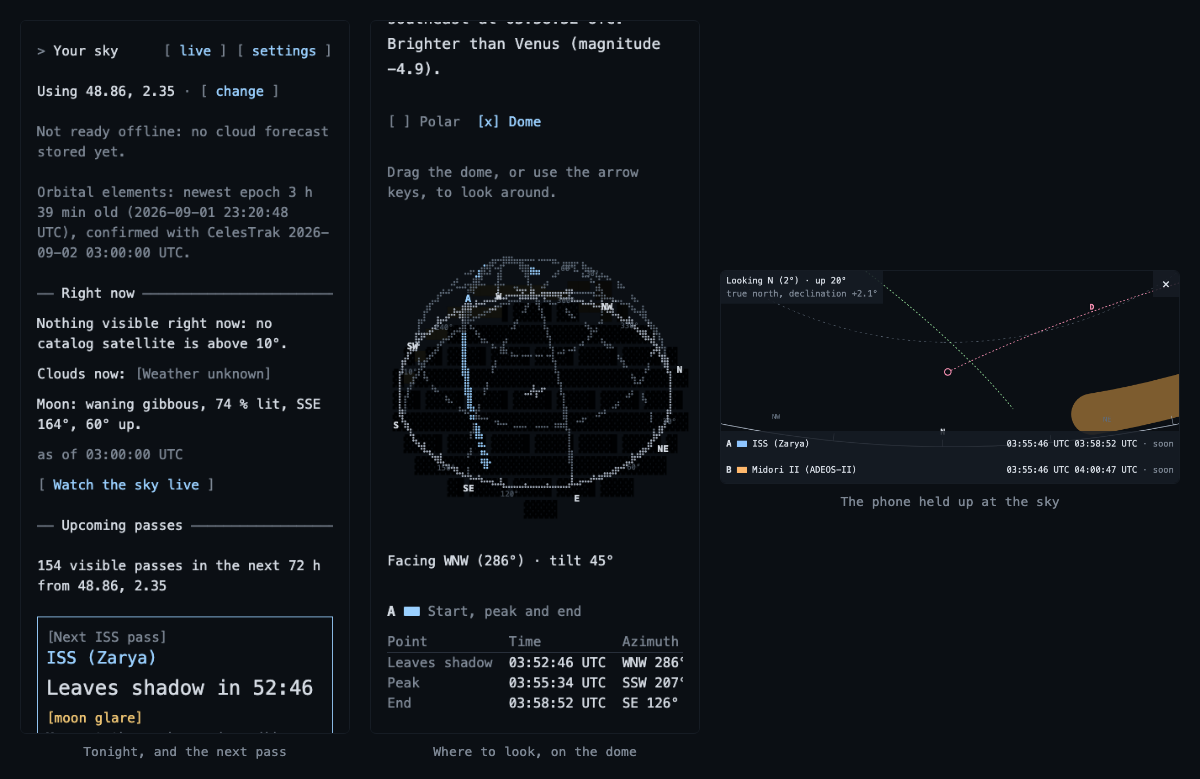
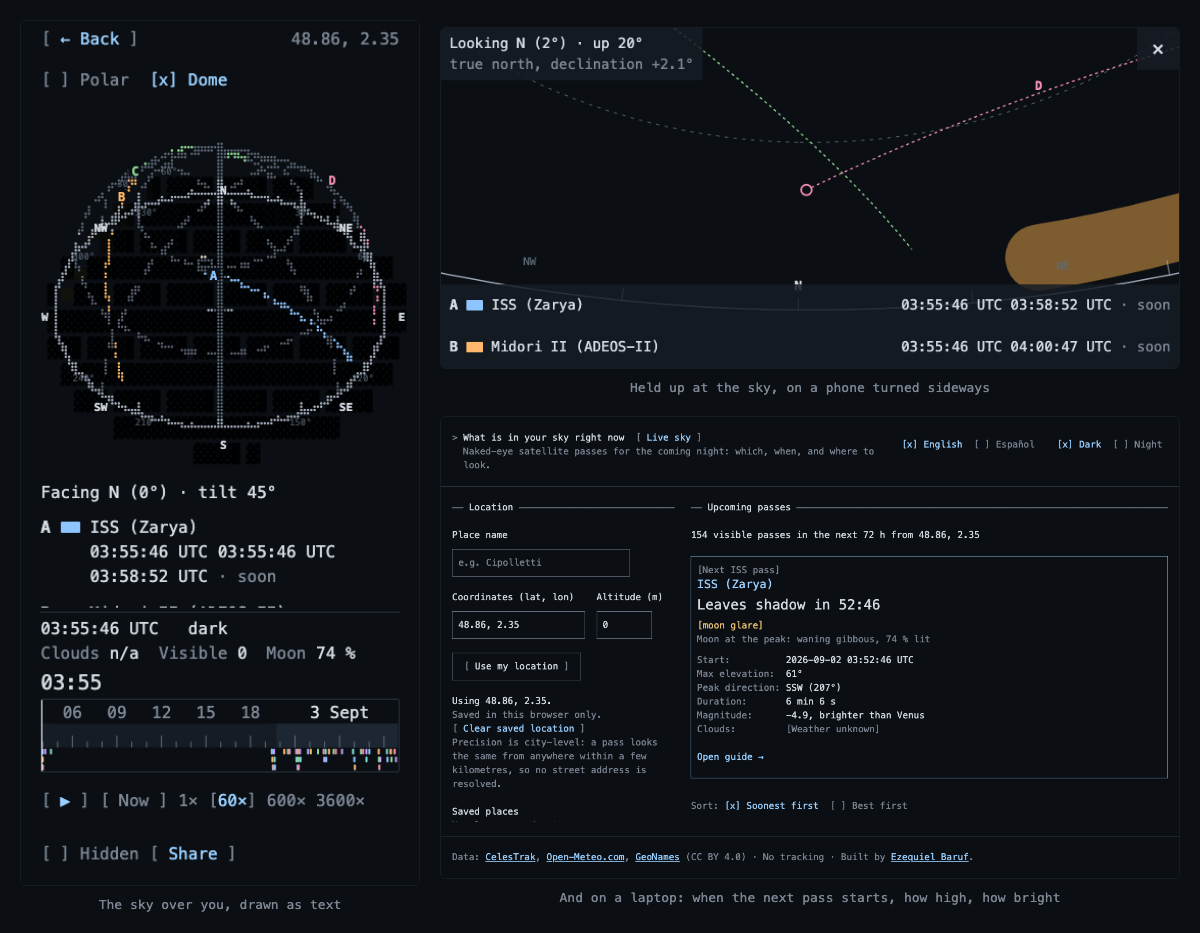
P1 review: the hero's geometry is derived from SOURCES, and the picture is worth the first screen
compose() hardcoded two portrait tiles and one landscape one, so a change
to SOURCES moved the pictures without moving the boxes they are drawn in.
Each source declares its own pixel size and its slot now, and geometry()
computes every width and height from those two facts and throws on a set
it cannot draw. The test asserts the declared sizes against the PNG
headers, that the placed tiles are exactly the sources, that the sheet is
as tall as its taller column, and the three refusals.

That hardcoding is also why the picture was wrong: a sideways phone stood
in a column sized for a standing one with a third of the sheet empty under
it. The sheet is a standing phone beside a column of two now, and the third
tile is the laptop page rather than a second view of the live one — the
next pass with its time, elevation, duration, magnitude and cloud verdict
is the thing a reader came to see, and it was in neither of the other two.

1280 x 640 cannot hold three tiles at any width, so the social preview
takes the standing phone and the first sideways one; previewSources says
so and the test pins it. Alt text follows the composition.

diff --git a/scripts/readme-hero.ts b/scripts/readme-hero.ts
@@ -5,18 +5,26 @@
  *
  *   npx tsx scripts/readme-hero.ts
  *
- * The app is never run to make these. The script writes one HTML page with
- * three `<img>` tags pointing at committed captures, opens it with the
- * Playwright Chromium the mockup script already uses, and screenshots it
- * twice: `docs/readme/hero.png` at 1200 px wide, and
- * `docs/readme/social-preview.png` at exactly 1280 x 640. Both are
- * deterministic given the inputs, and the inputs are named in `SOURCES`
- * below, which `tests/docs/public.test.ts` reads — so a capture renamed by a
- * later phase fails a test instead of leaving a broken image in the README.
+ * The app is never run to make these. The script writes one HTML page with an
+ * `<img>` per capture, opens it with the Playwright Chromium the mockup script
+ * already uses, and screenshots it twice: `docs/readme/hero.png` at 1200 px
+ * wide, and `docs/readme/social-preview.png` at exactly 1280 x 640. Both are
+ * deterministic given the inputs, and the inputs are named in `SOURCES` below,
+ * which `tests/docs/public.test.ts` reads — so a capture renamed by a later
+ * phase fails a test instead of leaving a broken image in the README.
  *
  * `docs/screenshots/` is read and never written: `tests/docs/captures.test.ts`
  * owns that directory and fails on a file the capture set does not name, which
  * is why the output lives under `docs/readme/`.
+ *
+ * The layout is computed from `SOURCES` by `geometry()`, and nothing about it is
+ * written down twice. The first version of this script hardcoded "two portrait
+ * tiles and one landscape tile", so a change to `SOURCES` would have moved the
+ * pictures without moving the boxes they are drawn in — and the picture it did
+ * produce stood a sideways phone in a column sized for a standing one, with a
+ * third of the sheet empty beneath it. Each source now declares its own pixel
+ * size and which slot it fills, and every width and height below is derived
+ * from those two facts.
  */
 import { chromium } from '@playwright/test';
 import { mkdirSync, mkdtempSync, rmSync, writeFileSync } from 'node:fs';
@@ -34,121 +42,193 @@ export const HERO = { path: join(OUT, 'hero.png'), width: 1200 } as const;
 export const PREVIEW = { path: join(OUT, 'social-preview.png'), width: 1280, height: 640 } as const;
 
 /**
- * The three captures, side by side, in this order. Each is a release capture
- * from the v1.3 set, shot in the dark theme in English from the production
- * build — so the picture cannot disagree with the build the capture set was
- * shot from.
+ * One capture in the composition. `w` and `h` are the file's own pixels — the
+ * test reads the PNG header and fails if a declaration drifts from the file —
+ * and the slot says where it goes: `main` is the standing phone on the left,
+ * `stack` is the column of sideways phones beside it.
+ */
+export interface Source {
+  file: string;
+  caption: string;
+  w: number;
+  h: number;
+  slot: 'main' | 'stack';
+}
+
+/**
+ * The captures, in this order. Each is a release capture from the v1.3 set,
+ * shot in the dark theme in English from the production build — so the picture
+ * cannot disagree with the build the capture set was shot from.
  *
- * `crop` is for a capture taller than the tile it is drawn in: the home screen
- * is one full-page shot 1913 px tall, and the tile shows its top.
+ * Three answers to the three things a reader wants in the first ten seconds:
+ * what the sky over them looks like (the live page on a standing phone, the
+ * tile the eye lands on first), what the app is for outdoors (the sky screen,
+ * held up, which is what the whole v1.3 phase was for), and what it actually
+ * tells you (the laptop page, where the next pass carries its time, elevation,
+ * duration, magnitude and cloud verdict in one card).
  */
 export const SOURCES = [
   {
-    file: 'v1-home-390-dark-en.png',
-    caption: 'Tonight, and the next pass',
-    orientation: 'portrait',
-    crop: true,
-  },
-  {
-    file: 'v1-guide-390-dark-en.png',
-    caption: 'Where to look, on the dome',
-    orientation: 'portrait',
-    crop: false,
+    file: 'v1-live-390-dark-en.png',
+    caption: 'The sky over you, drawn as text',
+    w: 390,
+    h: 844,
+    slot: 'main',
   },
   {
     file: 'v1-sky-screen-sky-844-dark-en.png',
-    caption: 'The phone held up at the sky',
-    orientation: 'landscape',
-    crop: false,
+    caption: 'Held up at the sky, on a phone turned sideways',
+    w: 844,
+    h: 390,
+    slot: 'stack',
   },
-] as const satisfies readonly {
-  file: string;
-  caption: string;
-  orientation: 'portrait' | 'landscape';
-  crop: boolean;
-}[];
+  {
+    file: 'v1-home-1280-dark-en.png',
+    caption: 'And on a laptop: when the next pass starts, how high, how bright',
+    w: 1280,
+    h: 800,
+    slot: 'stack',
+  },
+] as const satisfies readonly Source[];
 
 /** The dark theme's `--bg`, `--fg` and `--fg-dim` (`src/ui/styles/tokens.css`). */
 const INK = { bg: '#0b0f14', fg: '#d5dbe3', dim: '#7d8794', edge: '#161c24' } as const;
 
-/** One composition. `portrait` is the width of a phone tile; the landscape tile takes the rest of the row. */
-interface Layout {
+/** A caption's own box: the gap over it plus one line at 13/17. */
+const CAPTION_H = 10 + 17;
+/** The preview's title block: the heading, its gap and the URL line. */
+const TITLE_H = 22 + 6 + 18;
+
+/** What the sheet is, before the tiles are measured into it. */
+export interface Layout {
   width: number;
+  /** The height the file must have, or `null` to let the tiles set it. */
   height: number | null;
   pad: number;
   gap: number;
-  portrait: number;
+  /** The standing phone's width; every other box is derived from it. */
+  mainWidth: number;
   title: boolean;
 }
 
-/** 390 x 844 is the phone every capture in the set is shot at. */
-const PHONE = { width: 390, height: 844 } as const;
+/** One tile, placed. */
+export interface Placed {
+  source: Source;
+  width: number;
+  height: number;
+}
+
+/**
+ * The composition, computed. It throws rather than drawing something wrong: a
+ * sheet with no standing phone, none sideways, or no room left beside the
+ * standing one is a layout bug, and the picture it would produce is the kind
+ * nobody notices until it is the front page of a public repository.
+ */
+export function geometry(layout: Layout, sources: readonly Source[] = SOURCES): { main: Placed; stack: readonly Placed[]; height: number } {
+  const mains = sources.filter((source) => source.slot === 'main');
+  const stacked = sources.filter((source) => source.slot === 'stack');
+  const [only] = mains;
+  if (only === undefined || mains.length !== 1) throw new Error(`the sheet holds exactly one main tile; SOURCES declares ${String(mains.length)}`);
+  if (stacked.length === 0) throw new Error('the sheet needs at least one stacked tile');
+
+  const inner = layout.width - 2 * layout.pad;
+  const stackWidth = inner - layout.gap - layout.mainWidth;
+  if (stackWidth <= 0) throw new Error(`mainWidth ${String(layout.mainWidth)} leaves no room beside it in ${String(layout.width)} px`);
+
+  const place = (source: Source, width: number): Placed => ({ source, width, height: Math.round((width * source.h) / source.w) });
+  const main = place(only, layout.mainWidth);
+  const stack = stacked.map((source) => place(source, stackWidth));
+
+  const column = stack.reduce((total, tile) => total + tile.height + CAPTION_H, 0) + (stack.length - 1) * layout.gap;
+  const content = Math.max(main.height + CAPTION_H, column);
+  const height = content + 2 * layout.pad + (layout.title ? TITLE_H + layout.gap : 0);
+  return { main, stack, height };
+}
+
+/**
+ * The widest standing phone that keeps the sheet inside `ceiling`. The social
+ * preview is 1280 x 640 whatever is in it, so the tiles are sized down to that
+ * rather than the frame cropping whatever overflowed it.
+ */
+function fitMainWidth(layout: Layout, ceiling: number, sources: readonly Source[]): number {
+  const widest = Math.floor((layout.width - 2 * layout.pad - layout.gap) / 2);
+  for (let width = widest; width >= 80; width -= 2) {
+    if (geometry({ ...layout, mainWidth: width }, sources).height <= ceiling) return width;
+  }
+  throw new Error(`no tile width fits ${String(sources.length)} captures into ${String(layout.width)} x ${String(ceiling)}`);
+}
+
+/**
+ * What the social preview draws. A 1280 x 640 card cannot hold the hero's three
+ * tiles at any width — a sideways phone in a column is 0.46 of that column's
+ * width tall, so narrowing the standing phone to make room only makes the
+ * column beside it taller — and a card whose captions are unreadable is worse
+ * than a card with one screen fewer. So the preview takes the standing phone
+ * and the first sideways one, and the order of `SOURCES` is the priority order.
+ */
+export function previewSources(sources: readonly Source[] = SOURCES): readonly Source[] {
+  const stacked = sources.filter((source) => source.slot === 'stack').slice(0, 1);
+  return [...sources.filter((source) => source.slot === 'main'), ...stacked];
+}
 
 /** The composition, as one self-contained HTML document. */
-function compose(layout: Layout, urls: readonly string[]): string {
-  const tall = Math.round((layout.portrait * PHONE.height) / PHONE.width);
-  const landscape = layout.width - 2 * layout.pad - 2 * layout.gap - 2 * layout.portrait;
-  const tiles = SOURCES.map((source, index) => {
-    const wide = source.orientation === 'landscape';
-    const width = wide ? landscape : layout.portrait;
-    // The phone tiles are all the height of a 390 x 844 screen at this width; a
-    // capture taller than that (the full-page home screen) is drawn from the top
-    // rather than squashed. The landscape tile keeps its own aspect and is
-    // centred against them, because a phone held sideways is not as tall.
-    const box = wide ? `height: auto` : `height: ${String(tall)}px; object-fit: ${source.crop ? 'cover; object-position: top center' : 'contain'}`;
-    return `<figure class="tile" style="width: ${String(width)}px">
-      <img src="${urls[index] ?? ''}" alt="" style="width: ${String(width)}px; ${box}">
-      <figcaption>${source.caption}</figcaption>
+function compose(layout: Layout, urls: ReadonlyMap<string, string>, sources: readonly Source[] = SOURCES): string {
+  const { main, stack, height } = geometry(layout, sources);
+  const tile = (placed: Placed): string =>
+    `<figure class="tile" style="width: ${String(placed.width)}px">
+      <img src="${urls.get(placed.source.file) ?? ''}" alt="" width="${String(placed.width)}" height="${String(placed.height)}">
+      <figcaption>${placed.source.caption}</figcaption>
     </figure>`;
-  }).join('\n');
-  const title = layout.title
-    ? `<header><h1>What is in your sky right now</h1><p>in-your-sky.ezequiel-baruf.workers.dev</p></header>`
-    : '';
+  const title = layout.title ? `<header><h1>What is in your sky right now</h1><p>in-your-sky.ezequiel-baruf.workers.dev</p></header>` : '';
   return `<!doctype html>
 <html lang="en"><head><meta charset="utf-8"><style>
   * { box-sizing: border-box; margin: 0; padding: 0; }
   html, body { background: ${INK.bg}; }
   /* The picture is this element, not the viewport: an element screenshot is
-     exactly its box, so the widths above are the widths of the two files. */
+     exactly its box, so the width below is the width of the file and the
+     height is the one geometry() computed, not whatever reflowed. */
   #sheet {
     background: ${INK.bg};
-    width: ${String(layout.width)}px;${layout.height === null ? '' : ` height: ${String(layout.height)}px;`}
+    width: ${String(layout.width)}px;
+    height: ${String(layout.height ?? height)}px;
     padding: ${String(layout.pad)}px;
     font-family: ui-monospace, SFMono-Regular, Menlo, Consolas, monospace;
     color: ${INK.fg};
     display: flex; flex-direction: column; justify-content: center; gap: ${String(layout.gap)}px;
   }
   header { text-align: center; }
-  header h1 { font-size: 22px; font-weight: 600; letter-spacing: 0.01em; }
-  header p { font-size: 14px; color: ${INK.dim}; margin-top: 6px; }
+  header h1 { font-size: 22px; font-weight: 600; letter-spacing: 0.01em; line-height: 22px; }
+  header p { font-size: 14px; line-height: 18px; color: ${INK.dim}; margin-top: 6px; }
   .row { display: flex; gap: ${String(layout.gap)}px; align-items: center; justify-content: center; }
+  .col { display: flex; flex-direction: column; gap: ${String(layout.gap)}px; }
   .tile { display: flex; flex-direction: column; gap: 10px; }
   .tile img { display: block; border: 1px solid ${INK.edge}; border-radius: 6px; background: ${INK.bg}; }
-  figcaption { font-size: 13px; color: ${INK.dim}; text-align: center; }
+  figcaption { font-size: 13px; line-height: 17px; color: ${INK.dim}; text-align: center; }
 </style></head>
-<body><div id="sheet">${title}<div class="row">${tiles}</div></div></body></html>`;
+<body><div id="sheet">${title}<div class="row">${tile(main)}<div class="col">${stack.map(tile).join('')}</div></div></div></body></html>`;
 }
 
 async function main(): Promise<void> {
   mkdirSync(OUT, { recursive: true });
   const scratch = mkdtempSync(join(tmpdir(), 'readme-hero-'));
-  const urls = SOURCES.map((source) => pathToFileURL(join(SCREENSHOTS, source.file)).href);
+  const urls = new Map(SOURCES.map((source) => [source.file, pathToFileURL(join(SCREENSHOTS, source.file)).href]));
   const browser = await chromium.launch();
   try {
-    // The hero: the three tiles set the height, so only the width is fixed.
-    // The padding and the gaps are as small as they can be: GitHub renders a
+    // The hero: the tiles set the height, so only the width is fixed. The
+    // padding and the gaps are as small as they can be — GitHub renders a
     // README image at about 880 px, so every pixel not spent on a screen is a
     // pixel of text the reader loses to the downscale.
-    const hero = compose({ width: HERO.width, height: null, pad: 20, gap: 20, portrait: 330, title: false }, urls);
-    await shoot(browser, scratch, 'hero.html', hero, HERO.path);
+    const hero: Layout = { width: HERO.width, height: null, pad: 20, gap: 20, mainWidth: 400, title: false };
+    await shoot(browser, scratch, 'hero.html', compose(hero, urls), HERO.path);
 
     // The preview: 1280 x 640 exactly, which is what GitHub asks for, so the
-    // sheet is given both, and the title and URL fit above the tiles.
-    const preview = compose(
-      { width: PREVIEW.width, height: PREVIEW.height, pad: 28, gap: 20, portrait: 224, title: true },
-      urls,
-    );
-    await shoot(browser, scratch, 'preview.html', preview, PREVIEW.path);
+    // sheet is given both and the standing phone is sized down until the title
+    // and the captions fit inside it. Two tiles, for the reason on
+    // `previewSources`.
+    const chosen = previewSources();
+    const preview: Layout = { width: PREVIEW.width, height: PREVIEW.height, pad: 24, gap: 16, mainWidth: 0, title: true };
+    const fitted: Layout = { ...preview, mainWidth: fitMainWidth(preview, PREVIEW.height, chosen) };
+    await shoot(browser, scratch, 'preview.html', compose(fitted, urls, chosen), PREVIEW.path);
   } finally {
     await browser.close();
     rmSync(scratch, { recursive: true, force: true });
@@ -169,7 +249,7 @@ async function shoot(
 ): Promise<void> {
   const file = join(scratch, name);
   writeFileSync(file, html, 'utf8');
-  const page = await browser.newPage({ viewport: { width: 1400, height: 1000 }, deviceScaleFactor: 1 });
+  const page = await browser.newPage({ viewport: { width: 1500, height: 1400 }, deviceScaleFactor: 1 });
   await page.goto(pathToFileURL(file).href);
   await page.evaluate(() => document.fonts.ready);
   const sheet = page.locator('#sheet');

diff --git a/tests/docs/public.test.ts b/tests/docs/public.test.ts
@@ -18,7 +18,7 @@ import { existsSync, readFileSync, statSync } from 'node:fs';
 import { join, normalize } from 'node:path';
 import { describe, expect, it } from 'vitest';
 
-import { HERO, PREVIEW, SOURCES } from '../../scripts/readme-hero';
+import { geometry, HERO, PREVIEW, previewSources, SOURCES } from '../../scripts/readme-hero';
 import { productionPackages, RULE } from '../../scripts/third-party-notices';
 
 const readme = readFileSync('README.md', 'utf8');
@@ -141,11 +141,46 @@ describe('the hero and the social preview (FR-PUB-2, FR-PUB-11, D-370)', () => {
     return { width: header.readUInt32BE(16), height: header.readUInt32BE(20) };
   }
 
-  it('is composed from captures that are in the committed set', () => {
-    expect(SOURCES.length).toBe(3);
+  it('is composed from captures that are in the committed set, at the sizes it declares', () => {
+    expect(SOURCES.length).toBeGreaterThanOrEqual(2);
     for (const source of SOURCES) {
-      expect(existsSync(join('docs/screenshots', source.file)), `missing capture ${source.file}`).toBe(true);
+      const path = join('docs/screenshots', source.file);
+      expect(existsSync(path), `missing capture ${source.file}`).toBe(true);
+      // The declared size is what every box is derived from, so a capture
+      // re-shot at another size must fail here rather than skew the layout.
+      expect(size(path), `declared size of ${source.file}`).toEqual({ width: source.w, height: source.h });
     }
+  });
+
+  it('lays every source out, with no geometry written down twice', () => {
+    // The review finding on the first P1 run: `compose()` hardcoded two portrait
+    // tiles and one landscape one, so a change to SOURCES moved the pictures and
+    // not the boxes. Every tile is placed from its own declared size now, and
+    // this is what says so — the placed tiles are exactly the sources.
+    const layout = { width: HERO.width, height: null, pad: 20, gap: 20, mainWidth: 400, title: false };
+    const { main, stack, height } = geometry(layout);
+    expect([main, ...stack].map((tile) => tile.source.file)).toEqual(SOURCES.map((source) => source.file));
+    for (const tile of [main, ...stack]) {
+      expect(tile.height, `${tile.source.file} keeps its aspect`).toBe(Math.round((tile.width * tile.source.h) / tile.source.w));
+    }
+    // Every stacked tile is one column, so they share a width; and the sheet is
+    // as tall as the taller of the two columns, never taller.
+    expect(new Set(stack.map((tile) => tile.width)).size).toBe(1);
+    expect(height).toBe(size(HERO.path).height);
+  });
+
+  it('refuses a source list it cannot draw', () => {
+    const layout = { width: HERO.width, height: null, pad: 20, gap: 20, mainWidth: 400, title: false };
+    expect(() => geometry(layout, SOURCES.filter((source) => source.slot === 'stack'))).toThrow(/exactly one main tile/);
+    expect(() => geometry(layout, SOURCES.filter((source) => source.slot === 'main'))).toThrow(/at least one stacked tile/);
+    expect(() => geometry({ ...layout, mainWidth: HERO.width }, SOURCES)).toThrow(/leaves no room/);
+  });
+
+  it('the preview drops to two tiles, because 1280 x 640 cannot hold three', () => {
+    const chosen = previewSources();
+    expect(chosen.map((source) => source.slot)).toEqual(['main', 'stack']);
+    const declared = new Set<string>(SOURCES.map((source) => source.file));
+    expect(chosen.every((source) => declared.has(source.file))).toBe(true);
   });
 
   it('and writes nothing into docs/screenshots/, which captures.test.ts owns', () => {

diff --git a/README.md b/README.md
@@ -6,7 +6,7 @@ gets. It runs in the browser, with no backend and no account.
 
 **Live:** <https://in-your-sky.ezequiel-baruf.workers.dev>
 
-![Three phone screens side by side: tonight's passes with the next one, the pass drawn on the sky dome, and the sky screen held up at the sky](docs/readme/hero.png)
+![Three screens: a phone showing the sky over you drawn as braille text with the passes and the time stripe under it, a phone turned sideways held up at the sky, and a laptop showing when the next pass starts, how high it climbs and how bright it gets](docs/readme/hero.png)
 
 It was built spec-driven, and mostly not by hand. Every line traces to a numbered
 requirement in `SPEC.md`; each slice in `TASKS.md` was delivered by one Claude Code
